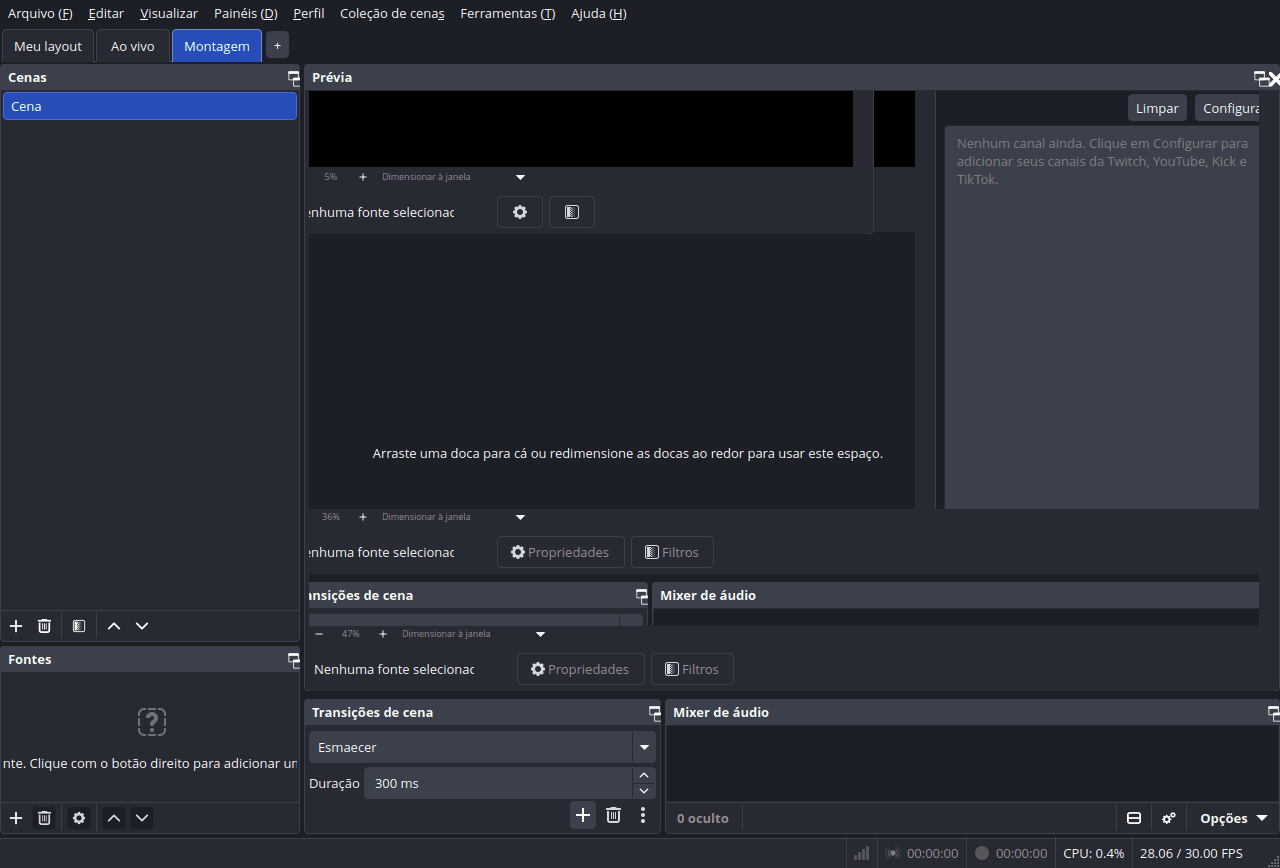
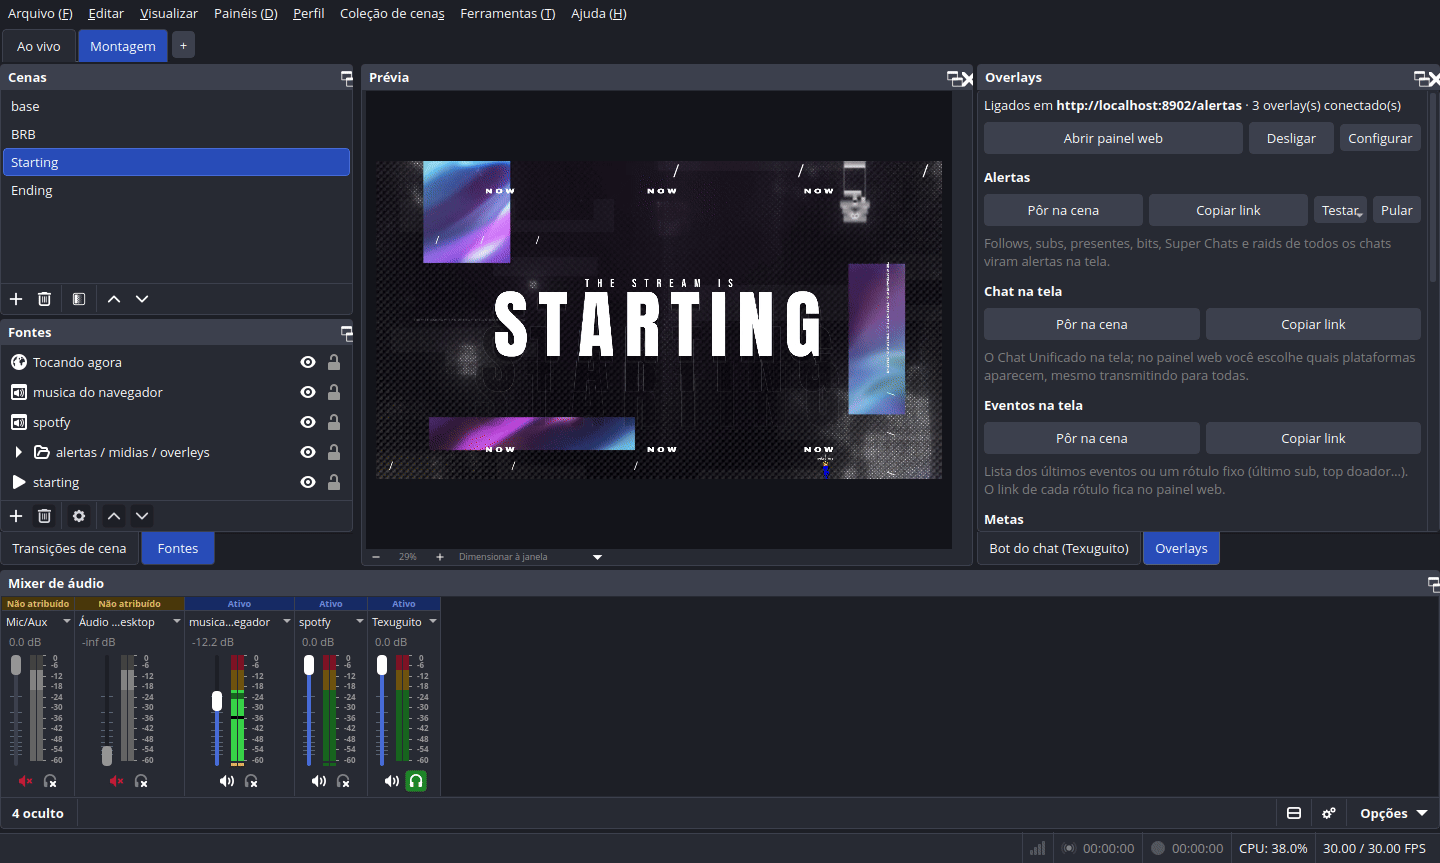
docs(site): new screenshots and a web panel section
Screenshots taken from a copy of the streamer's own OBS setup (Live and
Build tabs with real scenes and overlays), plus the web panel's chat,
alerts and theme tabs. The bot card mentions the automatic messages.

diff --git a/site/index.template.html b/site/index.template.html
@@ -44,6 +44,7 @@ h2 { font-size: 26px; margin: 0 0 16px; }
 .card p { margin: 0; color: var(--muted); font-size: 15px; }
 .shot { margin: 18px 0; }
 .shot img { width: 100%; height: auto; border-radius: 10px; border: 1px solid var(--line); display: block; }
+.shot img.natural { width: auto; max-width: 100%; }
 .shot figcaption { color: var(--muted); font-size: 14px; margin-top: 6px; }
 .pair { display: grid; grid-template-columns: repeat(auto-fit, minmax(300px, 1fr)); gap: 14px; align-items: start; }
 code, pre { background: var(--code); border-radius: 6px; font-family: ui-monospace, "Cascadia Code", Consolas, monospace; font-size: 14px; }
@@ -99,8 +100,8 @@ html.pt [lang="en"], html.en [lang="pt-BR"] { display: none !important; }
       <p lang="pt-BR">Exporte abas, canais e saídas como um texto <code>MOE1:</code> e importe em outro PC. Chaves nunca vão junto.</p>
       <p lang="en">Export tabs, channels and outputs as one <code>MOE1:</code> text and import it on another PC. Keys never go along.</p></div>
     <div class="card"><h3 lang="pt-BR">Bot do chat (Texuguito)</h3><h3 lang="en">Chat bot (Texuguito)</h3>
-      <p lang="pt-BR">Bot do chat com desfile pixel art de quem assiste, pontos, áudios, TTS, sorteio e comandos criados pelo chat, para todas as plataformas.</p>
-      <p lang="en">Chat bot with a pixel-art parade of your viewers, points, sound clips, TTS, raffles and chat-made commands, for every platform.</p>
+      <p lang="pt-BR">Bot do chat com desfile pixel art de quem assiste, pontos, áudios, TTS, sorteio, comandos criados pelo chat e mensagens automáticas por tempo, para todas as plataformas.</p>
+      <p lang="en">Chat bot with a pixel-art parade of your viewers, points, sound clips, TTS, raffles, chat-made commands and automatic messages on a timer, for every platform.</p>
       <p style="margin-top: 8px"><a lang="pt-BR" href="comandos.html">Ver todos os comandos →</a><a lang="en" href="commands.html">See every command →</a></p></div>
     <div class="card"><h3>Overlays</h3>
       <p lang="pt-BR">Alertas, chat na tela, eventos na tela, metas, enquete pelo chat (<code>!voto</code>), subathon, o desfile do bot e Tocando agora, com os eventos das 3 plataformas. Tudo num painel web que abre no navegador, com um tema para todos de uma vez.</p>
@@ -116,20 +117,34 @@ html.pt [lang="en"], html.en [lang="pt-BR"] { display: none !important; }
 
 <section>
   <h2 lang="pt-BR">Como fica</h2><h2 lang="en">How it looks</h2>
-  <figure class="shot"><img src="img/tab-live.png" alt="OBS with the Live tab: preview, unified chat, mixer and controls" loading="lazy" width="1280" height="868">
-    <figcaption lang="pt-BR">Aba Ao vivo: prévia, chat unificado, mixer e controles.</figcaption>
-    <figcaption lang="en">Live tab: preview, unified chat, mixer and controls.</figcaption></figure>
-  <figure class="shot"><img src="img/tab-build.png" alt="OBS with the Build tab: scenes, sources, preview, transitions and mixer" loading="lazy" width="1280" height="868">
-    <figcaption lang="pt-BR">Aba Montagem: cenas, fontes, prévia, transições e mixer.</figcaption>
-    <figcaption lang="en">Build tab: scenes, sources, preview, transitions and mixer.</figcaption></figure>
-  <figure class="shot"><img src="img/activity.png" alt="Unified chat and Activity docks with subs, gifts and raids" loading="lazy">
+  <figure class="shot"><img src="img/tab-live.png" alt="OBS with the Live tab: preview with an alert, chat on screen and Now Playing, Stream events, Multistream and unified chat" loading="lazy" width="1440" height="863">
+    <figcaption lang="pt-BR">Aba Ao vivo: prévia com alerta, chat na tela e Tocando agora; Eventos da live, Multistream e chat unificado.</figcaption>
+    <figcaption lang="en">Live tab: preview with an alert, chat on screen and Now Playing; Stream events, Multistream and unified chat.</figcaption></figure>
+  <figure class="shot"><img src="img/tab-build.png" alt="OBS with the Build tab: scenes, sources, preview, mixer and the Overlays dock" loading="lazy" width="1440" height="863">
+    <figcaption lang="pt-BR">Aba Montagem: cenas, fontes, prévia, mixer e o painel Overlays.</figcaption>
+    <figcaption lang="en">Build tab: scenes, sources, preview, mixer and the Overlays dock.</figcaption></figure>
+  <figure class="shot"><img src="img/activity.png" alt="Unified chat and Stream events docks with subs, gifts, raids and emotes" loading="lazy" width="900" height="560">
     <figcaption lang="pt-BR">Chat unificado com eventos em destaque e o painel Eventos da live.</figcaption>
     <figcaption lang="en">Unified chat with highlighted events, and the Stream events dock.</figcaption></figure>
   <div class="pair">
-    <figure class="shot"><img src="img/outputs.png" alt="Outputs dock with Twitch, YouTube and Kick" loading="lazy">
+    <figure class="shot"><img class="natural" src="img/outputs.png" alt="Multistream dock with Kick and YouTube" loading="lazy" width="282" height="152">
       <figcaption lang="pt-BR">Painel Multistream.</figcaption><figcaption lang="en">Multistream dock.</figcaption></figure>
-    <figure class="shot"><img src="img/export.png" alt="Export configuration dialog with a MOE1 text" loading="lazy">
+    <figure class="shot"><img src="img/export.png" alt="Export configuration dialog with every section and a MOE1 text" loading="lazy" width="556" height="534">
       <figcaption lang="pt-BR">Exportar configuração.</figcaption><figcaption lang="en">Export configuration.</figcaption></figure>
+  </div>
+  <h3 lang="pt-BR">Painel web</h3><h3 lang="en">Web panel</h3>
+  <p lang="pt-BR">O botão Abrir painel web do painel Overlays abre no navegador uma aba para cada overlay, com prévia ao vivo.</p>
+  <p lang="en">The Open web panel button in the Overlays dock opens one browser tab per overlay, with a live preview.</p>
+  <figure class="shot"><img src="img/web-chat.png" alt="Web panel, Chat on screen tab: platforms, filters, look and a preview" loading="lazy" width="1440" height="900">
+    <figcaption lang="pt-BR">Chat na tela: plataformas, filtros, visual e prévia com emotes.</figcaption>
+    <figcaption lang="en">Chat on screen: platforms, filters, look and a preview with emotes.</figcaption></figure>
+  <div class="pair">
+    <figure class="shot"><img src="img/web-alertas.png" alt="Web panel, Alerts tab: position, queue, volume, GIF search and the overlay link" loading="lazy" width="1440" height="900">
+      <figcaption lang="pt-BR">Alertas: um tipo por evento, fila, GIFs e link da fonte.</figcaption>
+      <figcaption lang="en">Alerts: one type per event, queue, GIFs and the source link.</figcaption></figure>
+    <figure class="shot"><img src="img/web-tema.png" alt="Web panel, Theme tab: one font and colors for every overlay, with a goal and poll preview" loading="lazy" width="1440" height="900">
+      <figcaption lang="pt-BR">Tema: uma fonte e cores para todos os overlays.</figcaption>
+      <figcaption lang="en">Theme: one font and colors for every overlay.</figcaption></figure>
   </div>
 </section>
 
